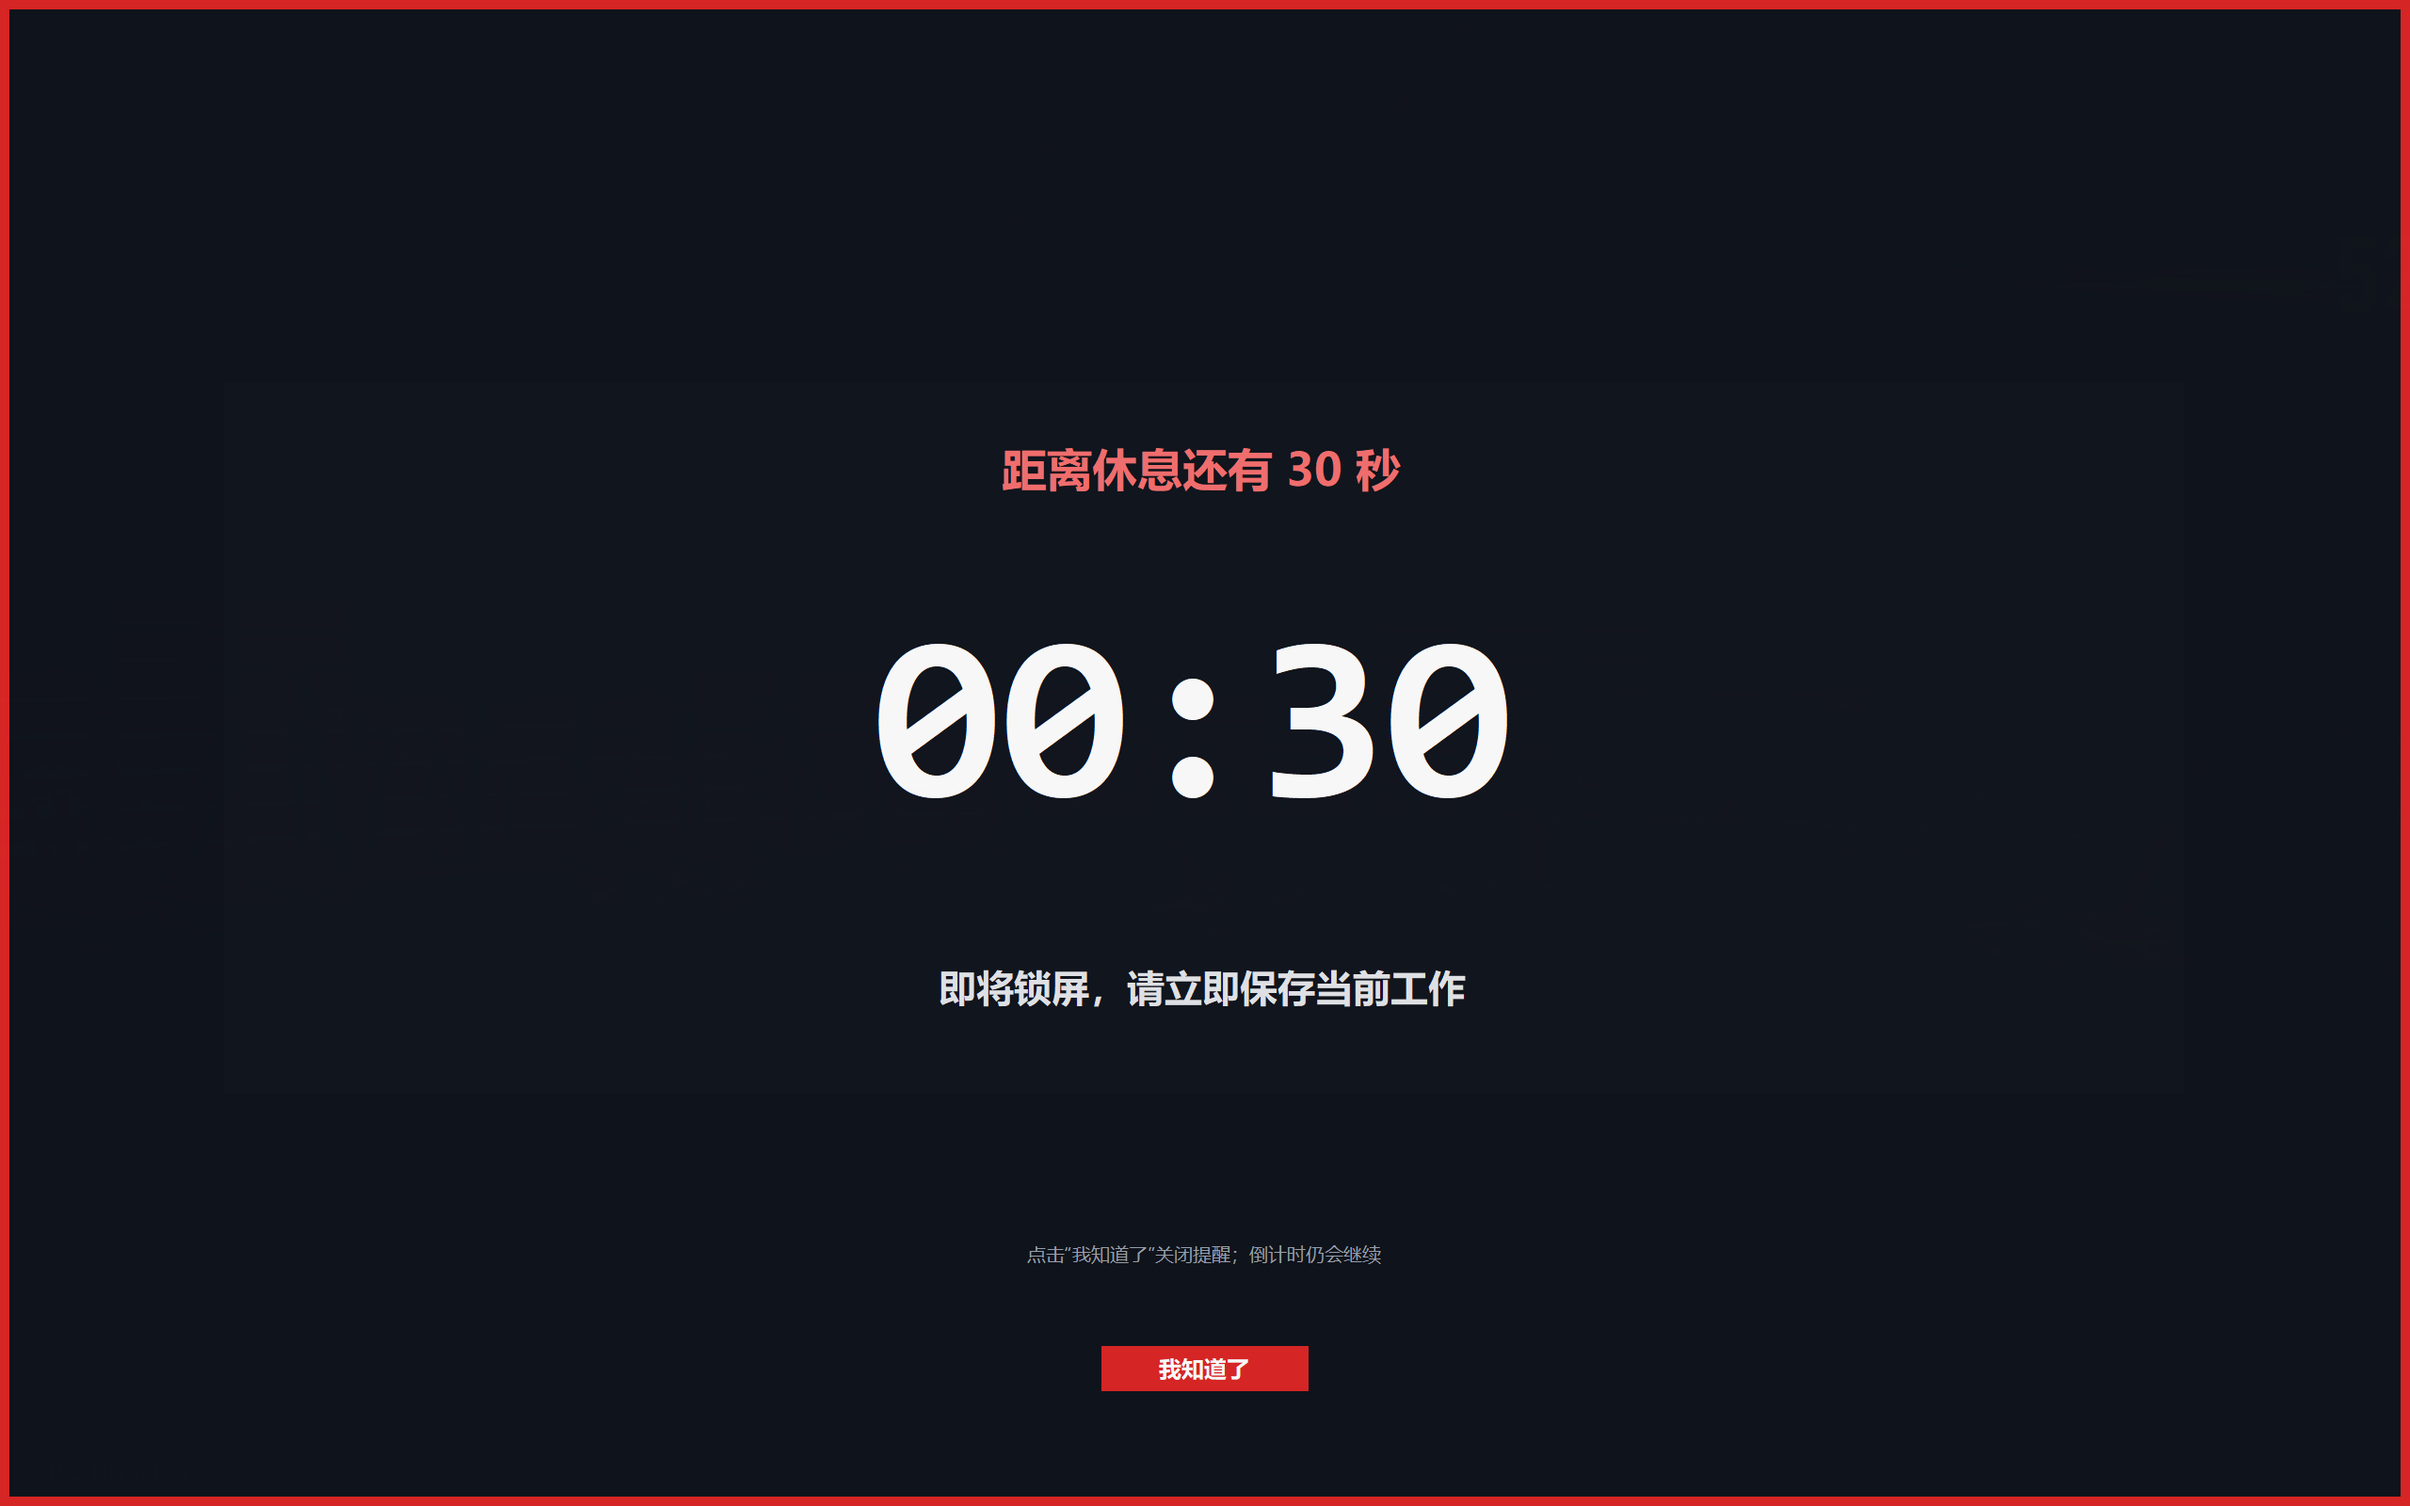
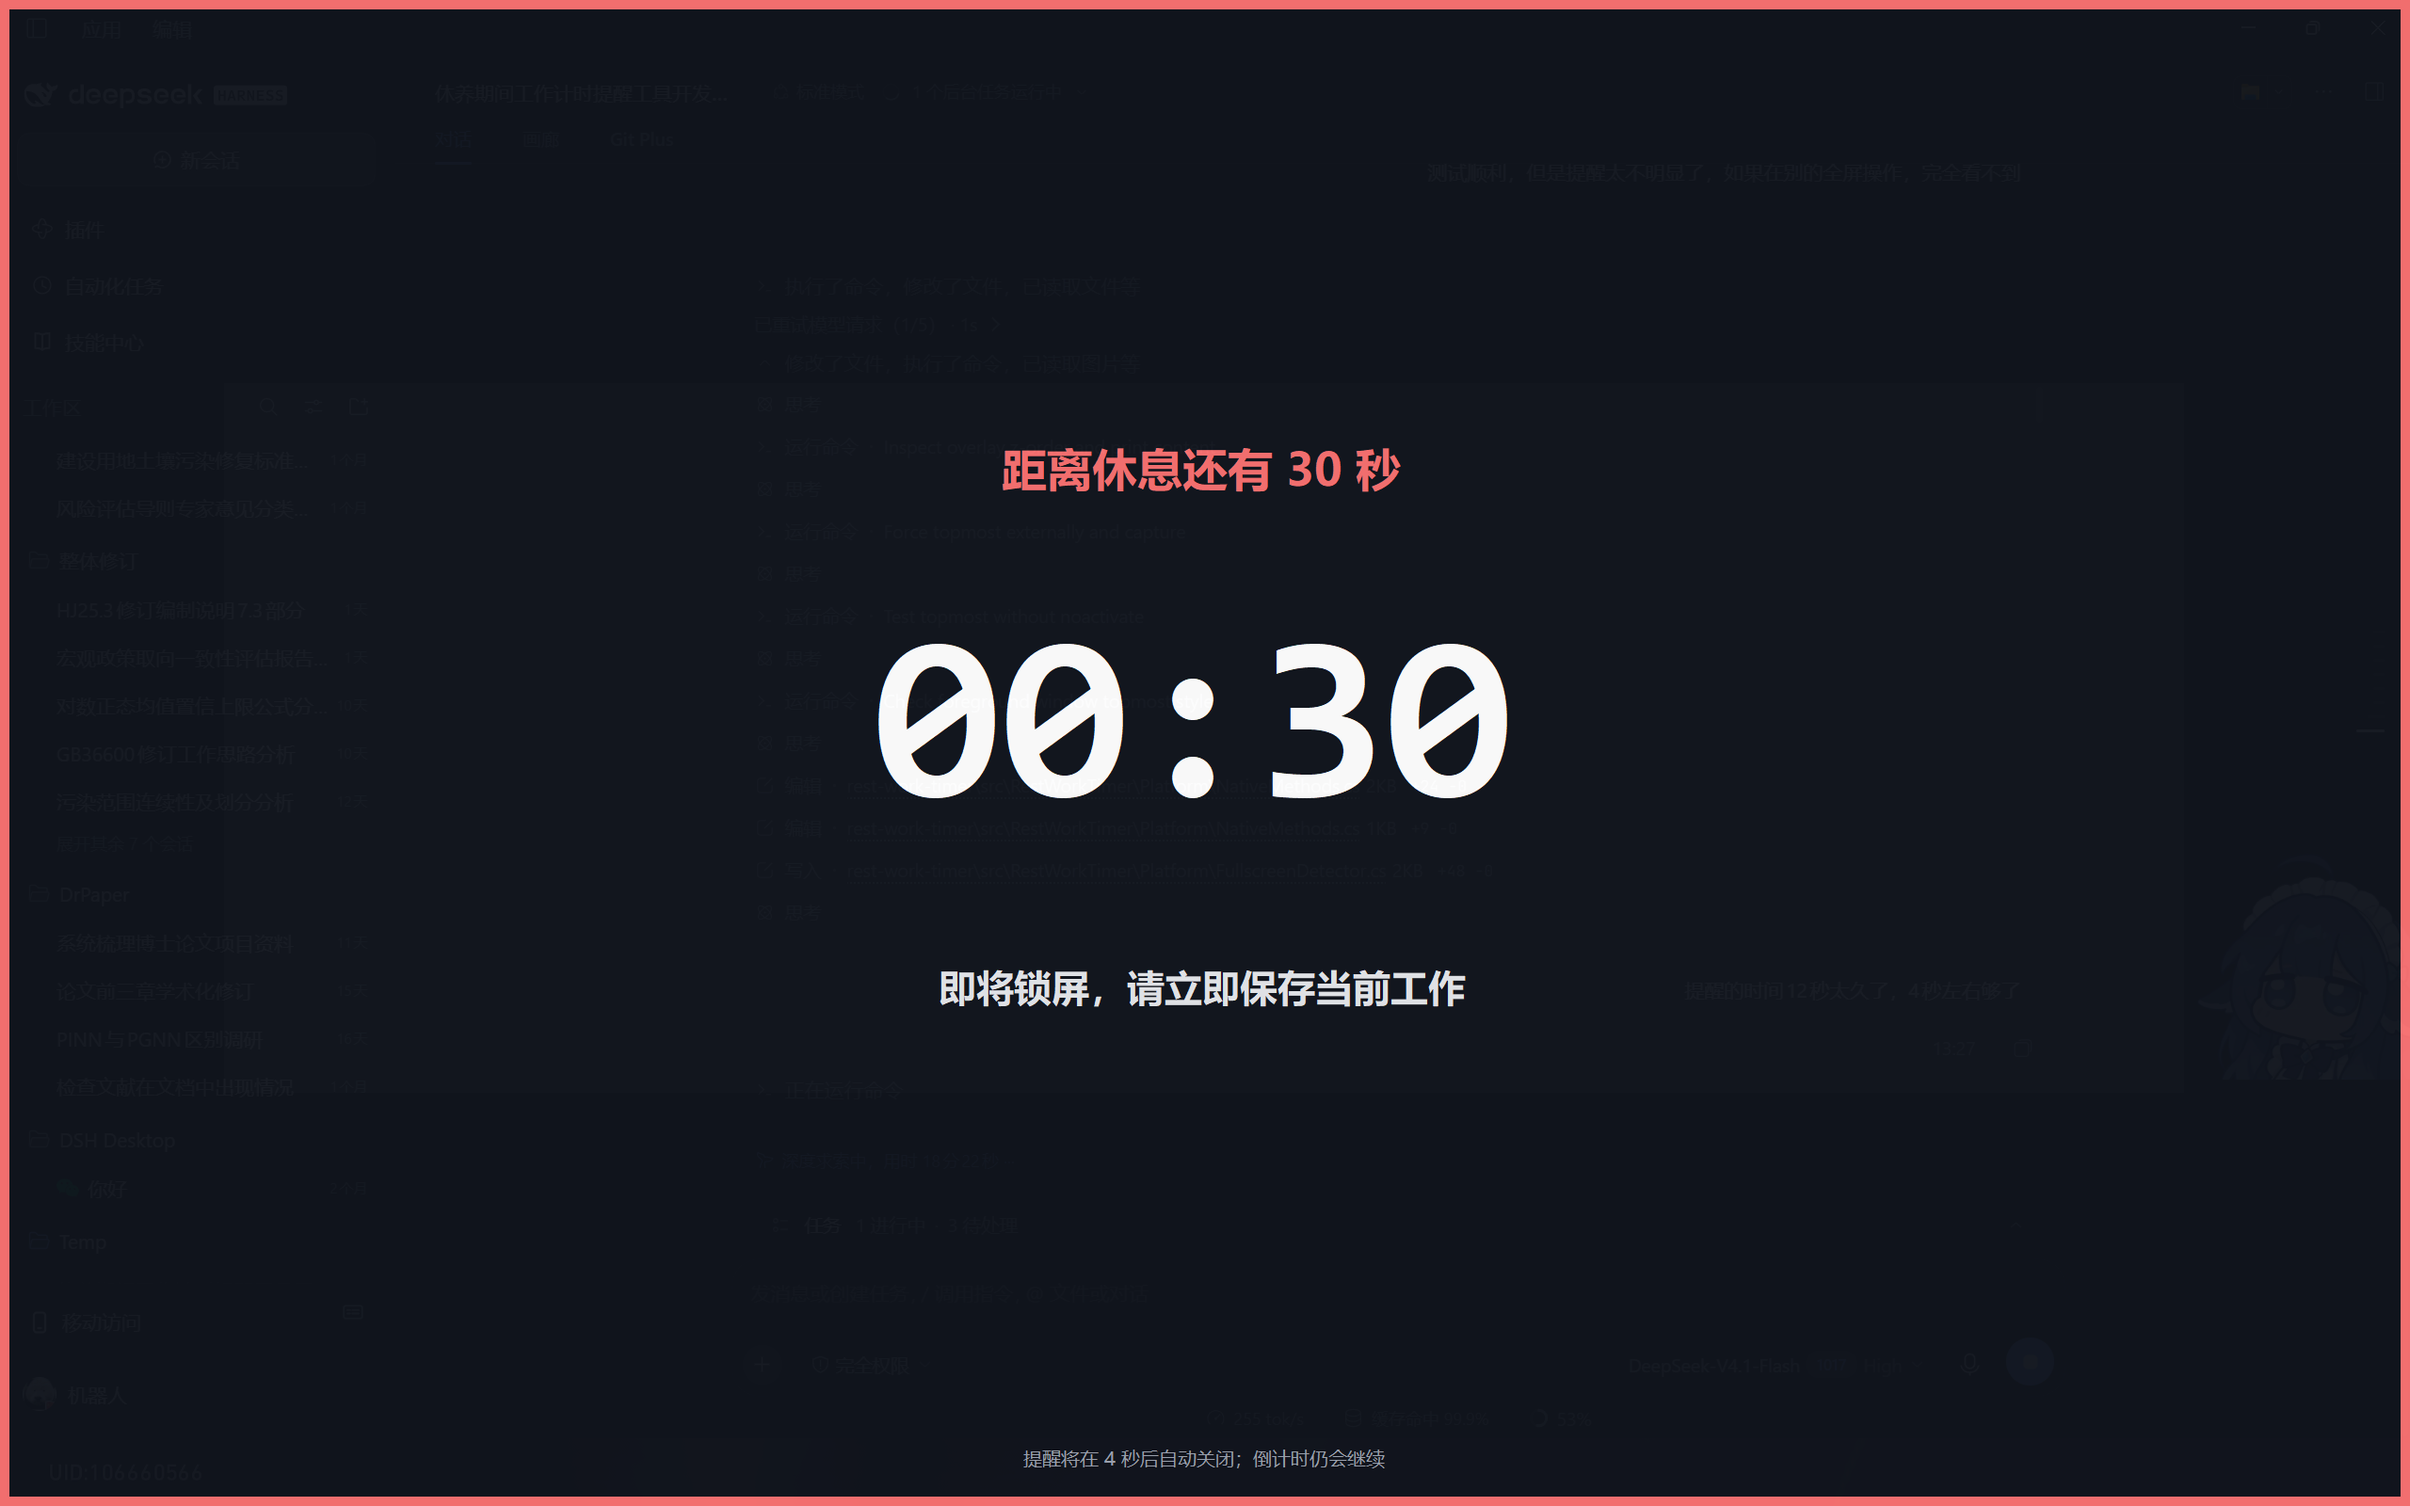
fix(ui): shorten fullscreen reminder to four seconds

Changed region(s): [[0.0, 0.0, 1.0, 1.0], [0.4375, 0.875, 0.5625, 0.9375], [0.4375, 0.8125, 0.5625, 0.8438]]

diff --git a/src/RestWorkTimer/App/TrayApp.cs b/src/RestWorkTimer/App/TrayApp.cs
@@ -527,7 +527,7 @@ public sealed class TrayApp : ApplicationContext
         {
             _reminder = new FullscreenReminderForm(
                 e.SecondsRemaining,
-                autoCloseSeconds: e.SecondsRemaining <= 30 ? 12 : 10,
+                autoCloseSeconds: 4,
                 forceForeground);
             _reminder.FormClosed += (_, _) =>
             {

diff --git a/docs/RELEASE-NOTES-v0.1.1.md b/docs/RELEASE-NOTES-v0.1.1.md
@@ -10,7 +10,7 @@
   - 全屏遮罩 + 居中提示卡片
 - 提示音升级：60 秒双音重复 2 次，30 秒三音重复 3 次。
 - 检测到全屏游戏/全屏应用时，**先最小化当前全屏窗口**，再强制显示提醒，保证一定可见。
-- 全屏提醒点击穿透、自动关闭（60 秒 10 秒、30 秒 12 秒），游戏内点击不会误关。
+- 全屏提醒点击穿透、4 秒后自动关闭，游戏内点击不会误关。
 - 设置页新增“全屏应用时强制切出以显示提醒”，默认开启；不需要时可关闭。
 - 版本号升级到 0.1.1；其余计时、锁屏、休息解除、本地记录逻辑不变。
 
